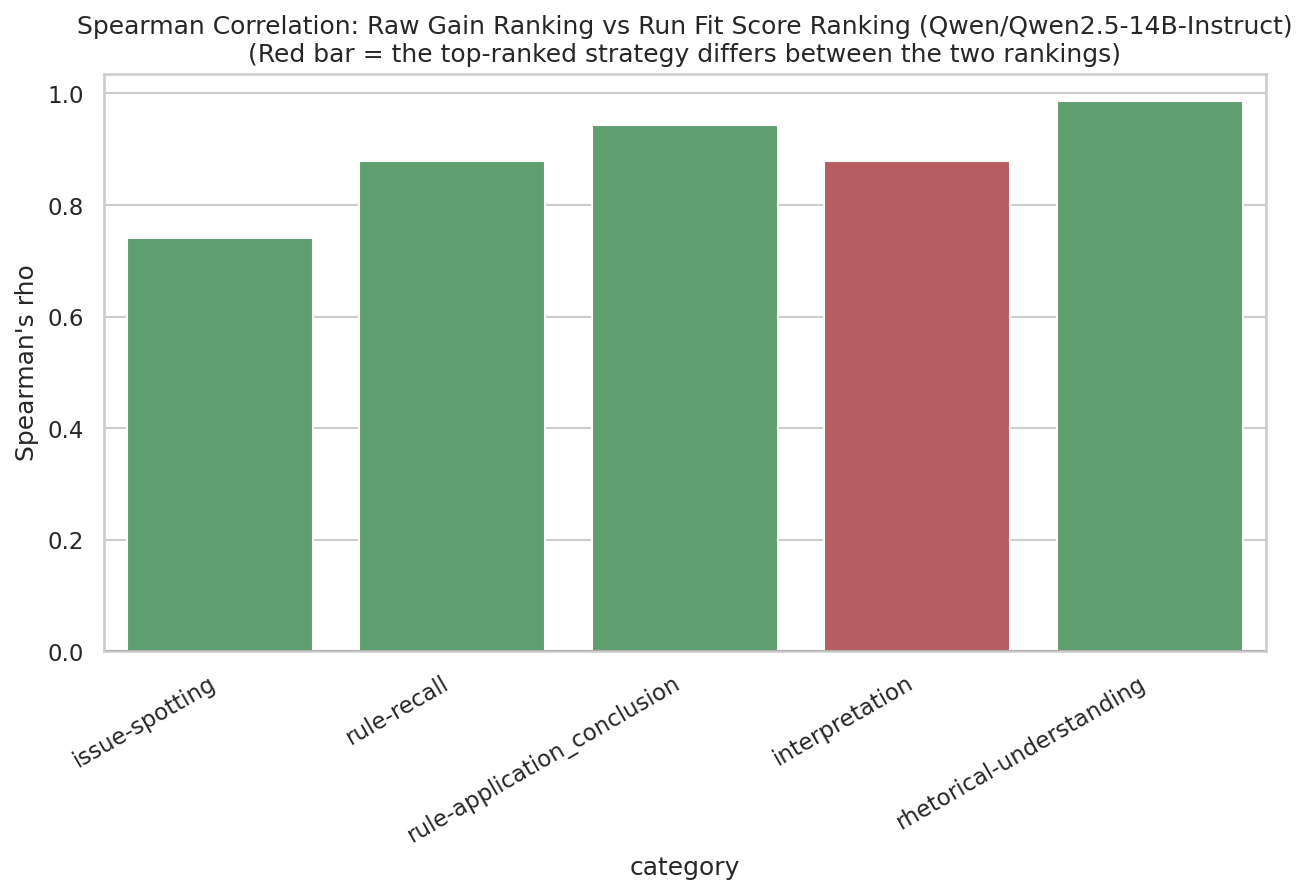
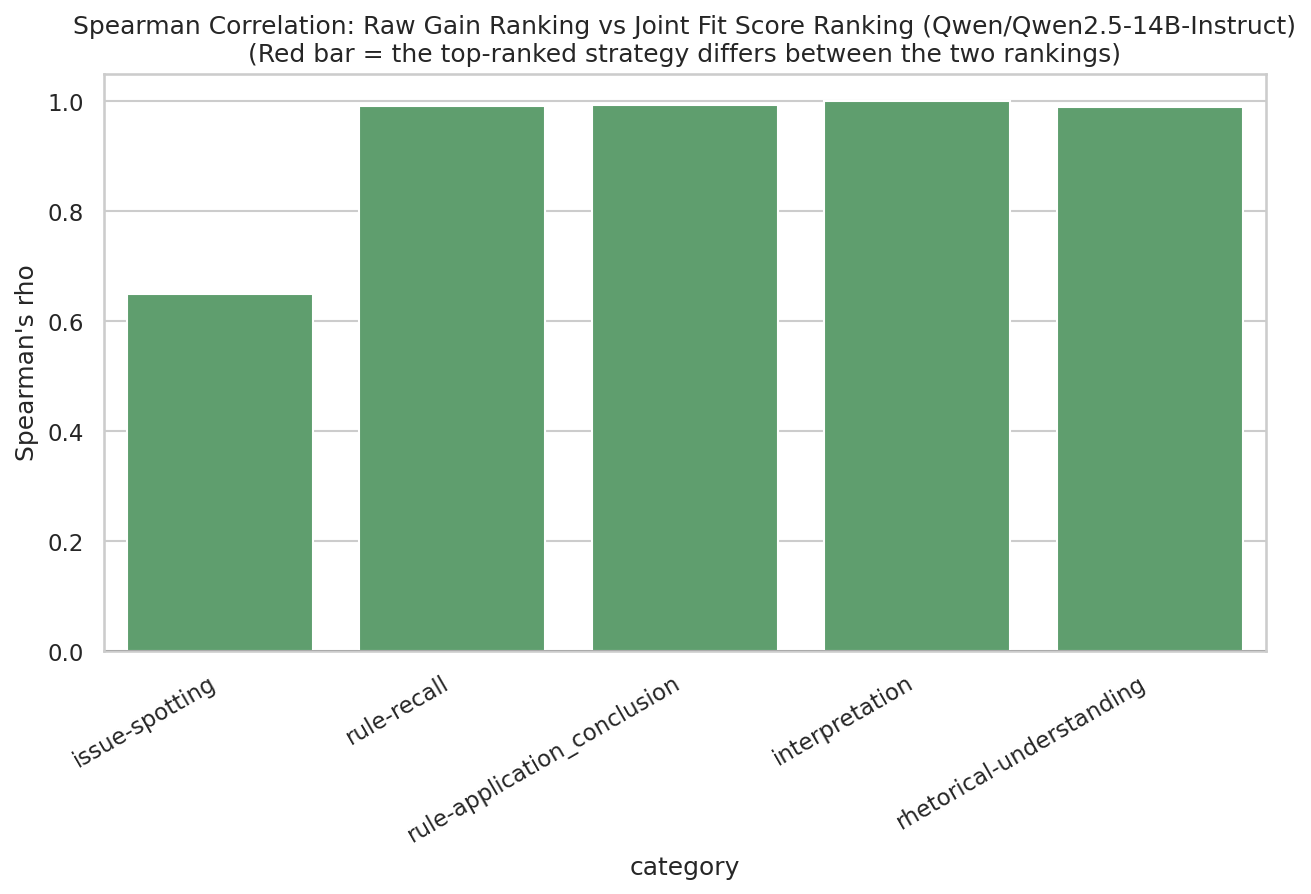
Update RQ1 raw gain comparison to Joint Fit

diff --git a/Evaluation/visualize_metrics.py b/Evaluation/visualize_metrics.py
@@ -337,8 +337,8 @@ def main():
         colors = ["#C44E52" if c else "#55A868" for c in spearman["champion_changed"]]
         sns.barplot(data=spearman, x="category", y="spearman_rho", ax=ax, palette=colors)
         ax.axhline(0, color="black", linewidth=0.8)
-        ax.set_title(f"Spearman Correlation: Raw Gain Ranking vs Run Fit Score Ranking ({model_name})\n"
-                     f"(Red bar = the top-ranked strategy differs between the two rankings)")
+        ax.set_title(f"Spearman Correlation: Raw Gain Ranking vs Joint Fit Score Ranking ({model_name})\n"
+             f"(Red bar = the top-ranked strategy differs between the two rankings)")
         ax.set_ylabel("Spearman's rho")
         plt.xticks(rotation=30, ha="right")
         savefig(fig, "bar_spearman_gain_vs_fitscore", safe_model_name)
